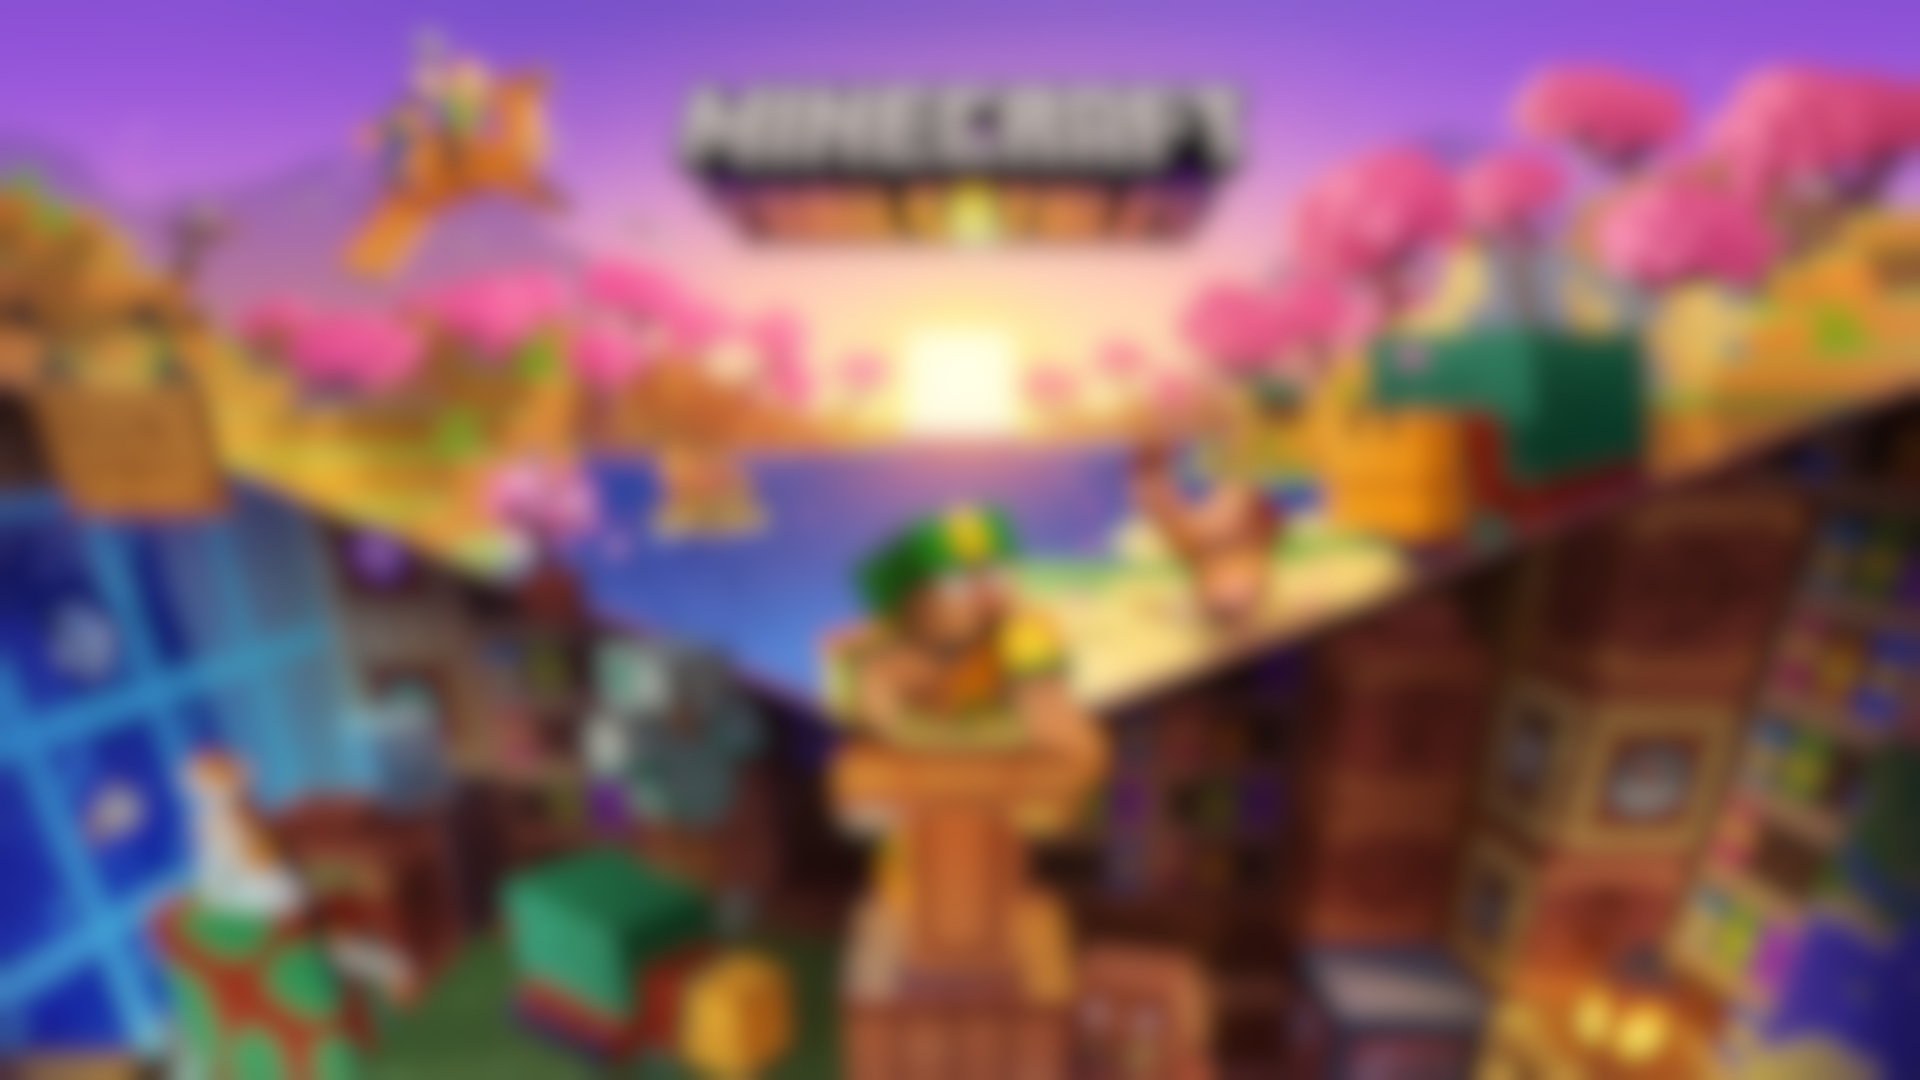
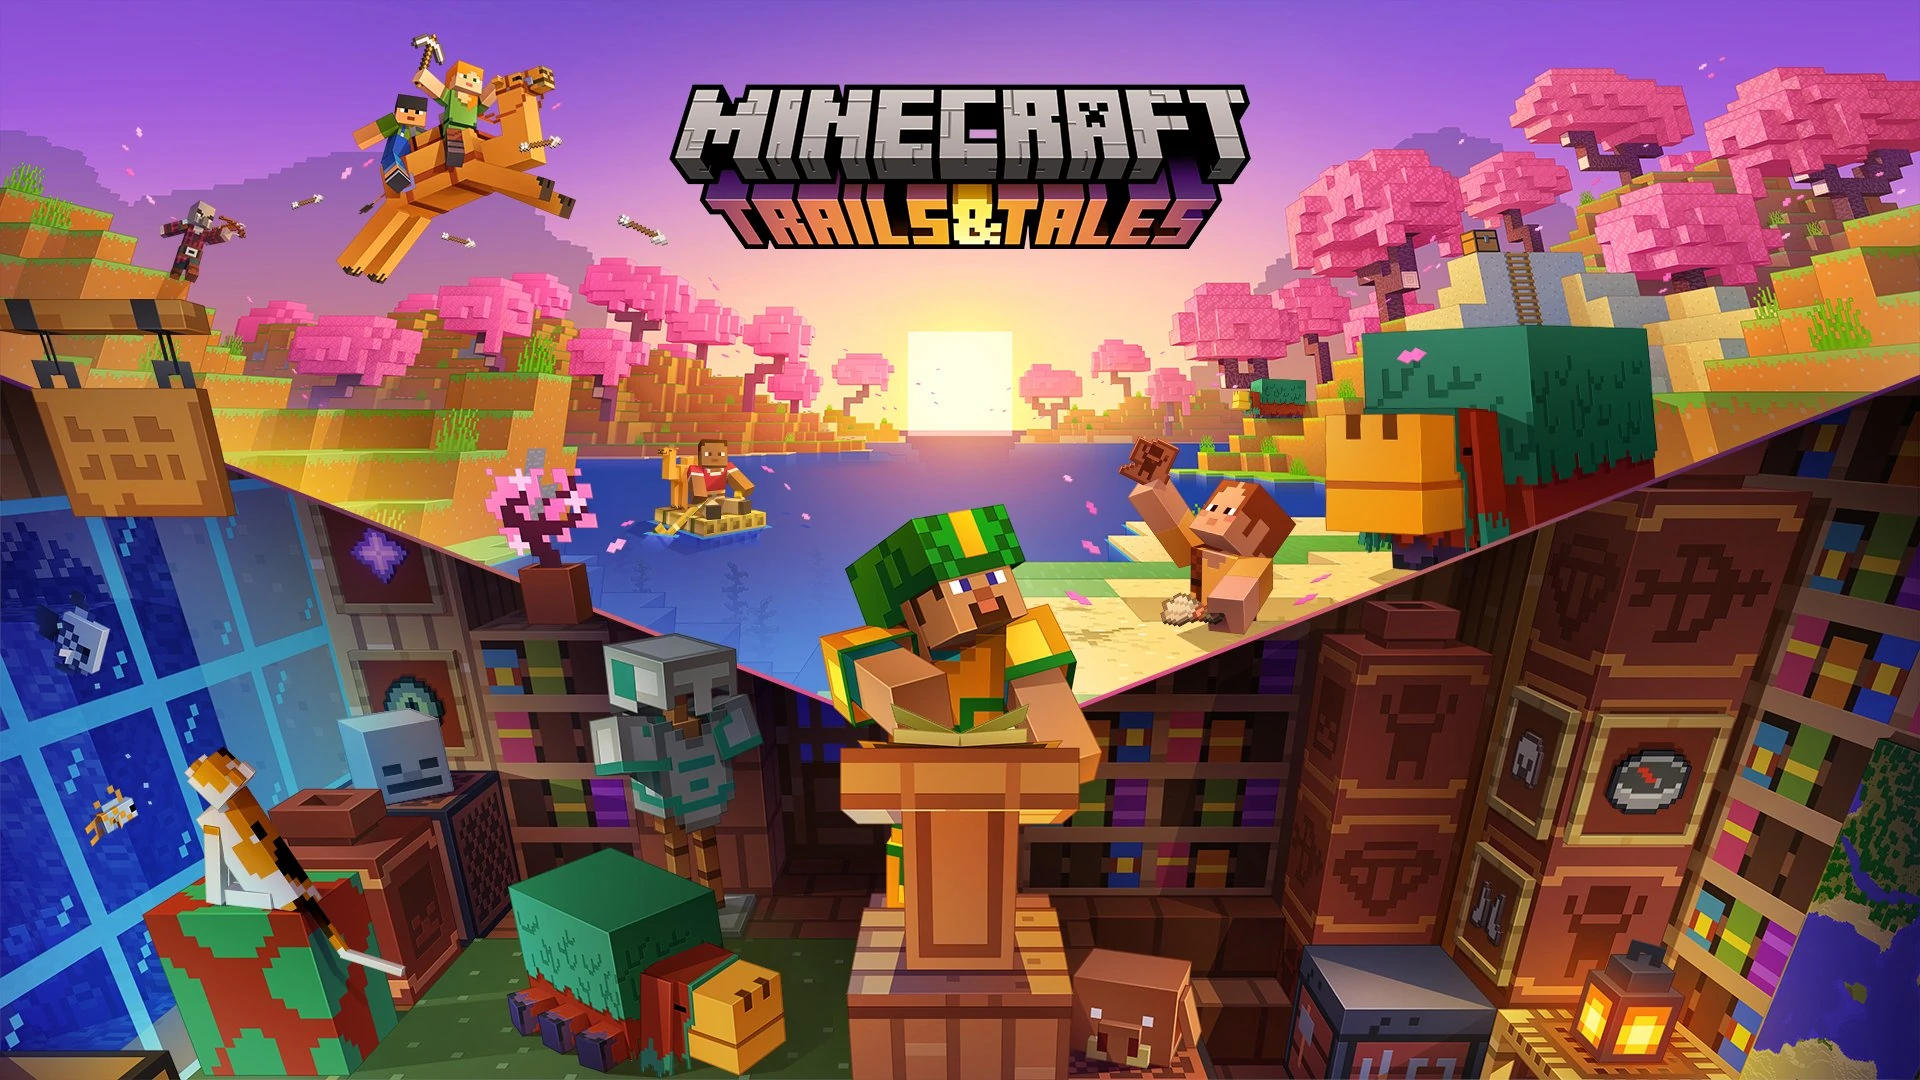
7.5.0

diff --git a/docs/index.html b/docs/index.html
@@ -41,39 +41,37 @@
         <a href="https://docs.qq.com/sheet/DUlVpU3FYY3VxZ2F1" class="btn btn-light" target="_blank">群在线文档</a>
         <a href="https://www.123pan.com/s/bSslVv-u8qEh.html" class="btn btn-light" target="_blank">群文件网盘</a>
     </div>
-    <div class="zb">
+    <div class="zb row">
         <h5>管理人员</h5>
-        <div class="row ">
-            <div class="card" style="width: 18rem;">
-                <img src="https://q4.qlogo.cn/g?b=qq&nk=93322252&s=140" class="card-img-top" alt="...">
-                <div class="card-body">
-                    <h5 class="card-title">Ianzb</h5>
-                    <p class="card-text">职位：<span class="badge text-bg-danger">群主</span></p>
-                    <p class="card-text">任期开始于2021年4月7日</p>
-                    <a href="./personal/zb.html" class="btn btn-light">个人主页</a>
-                    <a href="https://ianzb.github.io/" class="btn btn-light" target="_blank">个人网站</a>
-                    <a href="https://code.xueersi.com/space/15675199" class="btn btn-light" target="_blank">C站主页</a>
-                </div>
+        <div class="card" style="width: 18rem;">
+            <img src="https://q4.qlogo.cn/g?b=qq&nk=93322252&s=140" class="card-img-top" alt="...">
+            <div class="card-body">
+                <h5 class="card-title">Ianzb</h5>
+                <p class="card-text">职位：<span class="badge text-bg-danger">群主</span></p>
+                <p class="card-text">任期开始于2021年4月7日</p>
+                <a href="./personal/zb.html" class="btn btn-light">个人主页</a>
+                <a href="https://ianzb.github.io/" class="btn btn-light" target="_blank">个人网站</a>
+                <a href="https://code.xueersi.com/space/15675199" class="btn btn-light" target="_blank">C站主页</a>
             </div>
-            <div class="card" style="width: 18rem;">
-                <img src="https://q4.qlogo.cn/g?b=qq&nk=3094191558&s=140" class="card-img-top" alt="...">
-                <div class="card-body">
-                    <h5 class="card-title">DXJLSFB139</h5>
-                    <p class="card-text">职位：<span class="badge text-bg-primary">管理员</span></p>
-                    <p class="card-text">任期开始于2022年4月8日</p>
-                    <a href="./personal/1.html" class="btn btn-light">个人主页</a>
-                    <a href="https://code.xueersi.com/space/4888546" class="btn btn-light" target="_blank">C站主页</a>
-                </div>
+        </div>
+        <div class="card" style="width: 18rem;">
+            <img src="https://q4.qlogo.cn/g?b=qq&nk=3094191558&s=140" class="card-img-top" alt="...">
+            <div class="card-body">
+                <h5 class="card-title">DXJLSFB139</h5>
+                <p class="card-text">职位：<span class="badge text-bg-primary">管理员</span></p>
+                <p class="card-text">任期开始于2022年4月8日</p>
+                <a href="./personal/1.html" class="btn btn-light">个人主页</a>
+                <a href="https://code.xueersi.com/space/4888546" class="btn btn-light" target="_blank">C站主页</a>
             </div>
-            <div class="card" style="width: 18rem;">
-                <img src="https://q4.qlogo.cn/g?b=qq&nk=332861843&s=140" class="card-img-top" alt="...">
-                <div class="card-body">
-                    <h5 class="card-title">越菜越爱玩的机酱</h5>
-                    <p class="card-text">职位：<span class="badge text-bg-primary">管理员</span></p>
-                    <p class="card-text">任期开始于2022年5月8日</p>
-                    <a href="./personal/2.html" class="btn btn-light">个人主页</a>
-                    <a href="https://code.xueersi.com/space/40471363" class="btn btn-light" target="_blank">C站主页</a>
-                </div>
+        </div>
+        <div class="card" style="width: 18rem;">
+            <img src="https://q4.qlogo.cn/g?b=qq&nk=332861843&s=140" class="card-img-top" alt="...">
+            <div class="card-body">
+                <h5 class="card-title">越菜越爱玩的机酱</h5>
+                <p class="card-text">职位：<span class="badge text-bg-primary">管理员</span></p>
+                <p class="card-text">任期开始于2022年5月8日</p>
+                <a href="./personal/2.html" class="btn btn-light">个人主页</a>
+                <a href="https://code.xueersi.com/space/40471363" class="btn btn-light" target="_blank">C站主页</a>
             </div>
         </div>
     </div>

diff --git a/docs/main.css b/docs/main.css
@@ -1,33 +1,31 @@
 body {
-    background-image: url(./img/bg.png);
+    background-image: url(img/bg.png);
     background-size: 100%;
     text-align: center;
 }
 
-div {
-    text-align: center;
-    margin: 15px;
-}
-
 .zb {
     text-align: center;
-    background-color: rgba(255, 255, 255, 0.8);
+    background-color: rgba(255, 255, 255, 0.5);
     margin: 15px;
     border-radius: 7px;
+    backdrop-filter: blur(10px);
 }
 
 .zb-title {
     text-align: center;
-    background-color: rgba(255, 255, 255, 0.4);
+    background-color: rgba(255, 255, 255, 0.3);
     margin: 15px;
     border-radius: 7px;
+    backdrop-filter: blur(10px);
 }
 
 .zb-left {
     text-align: left;
-    background-color: rgba(255, 255, 255, 0.8);
+    background-color: rgba(255, 255, 255, 0.5);
     margin: 15px;
     border-radius: 7px;
+    backdrop-filter: blur(10px);
 }
 
 .zb-img {
@@ -35,6 +33,7 @@ div {
     background-color: rgba(255, 255, 255, 1.0);
     margin: 15px;
     border-radius: 7px;
+    backdrop-filter: blur(10px);
 }
 
 .logo {

diff --git a/docs/about.html b/docs/about.html
@@ -76,7 +76,7 @@
         2023-04-09：7.4.1：优化导入图标代码，更新管理员名称<br>
         2023-05-20：7.4.2：使用Git作为发布方式，更新开发界面描述文本<br>
         2023-05-27：7.4.3：更新群文件网盘链接，更新背景图片到MC1.20版本<br>
-        2023-06-04：7.4.4：更新Bootstrap到5.3.0<br>
+        2023-06-04：7.5.0：更新Bootstrap到5.3.0，添加背景部分模糊效果，修复主页管理人员部分贴靠错误的Bug<br>
     </div>
     <div class="zb">By Ianzb 2022-2023</div>
 </body>
